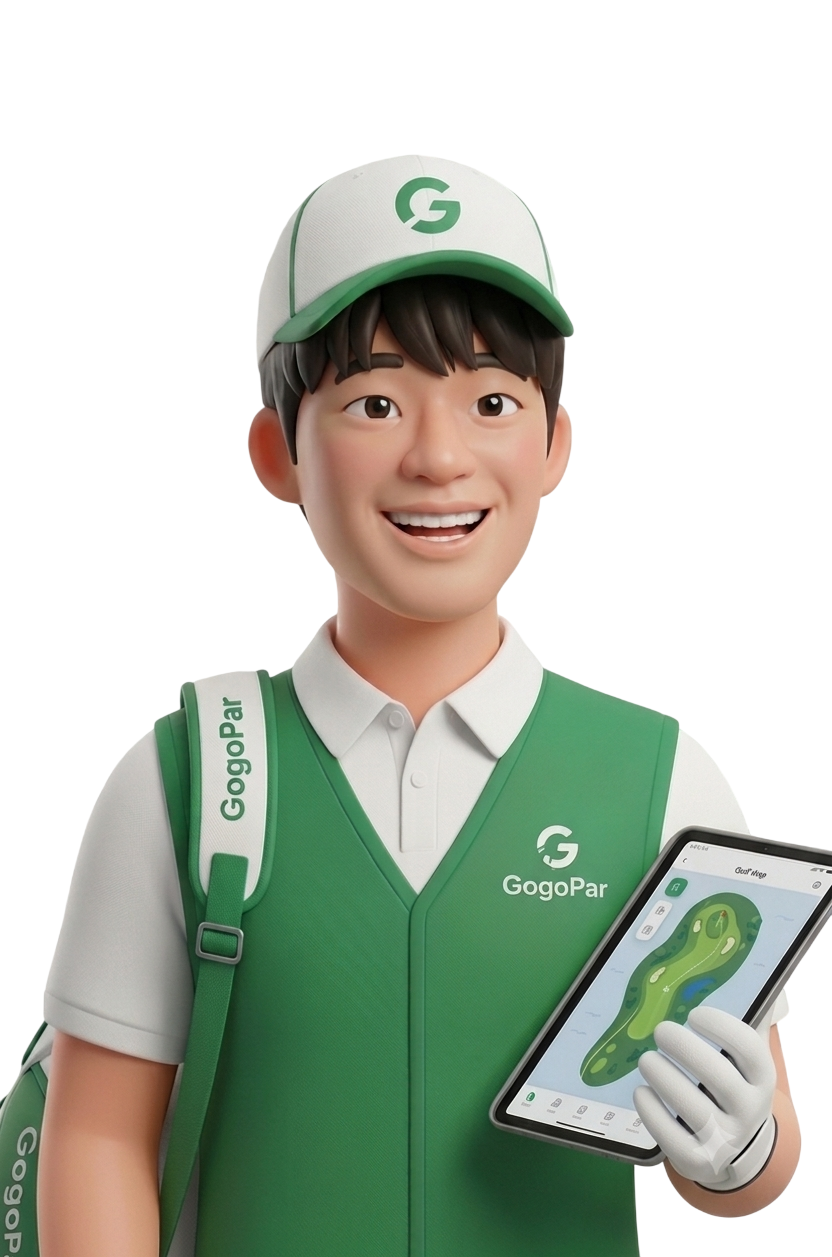
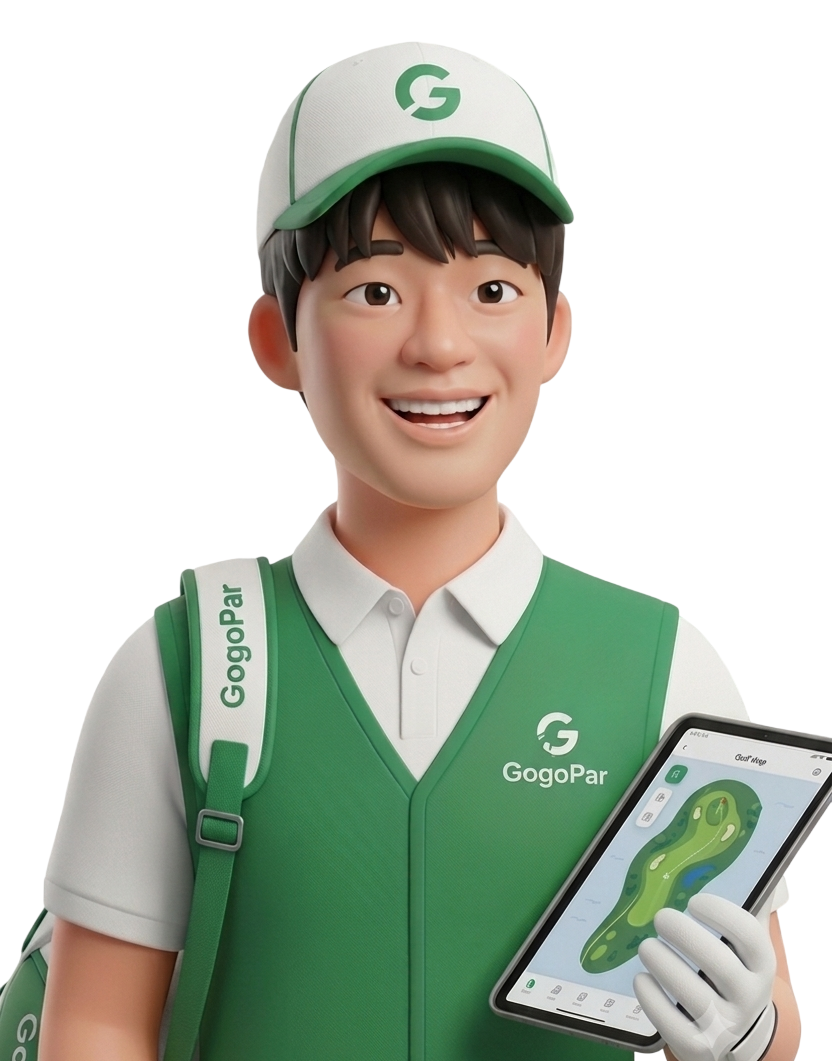
자동차 이동

diff --git a/src/features/home/components/PremiumGogoCaddieCard.tsx b/src/features/home/components/PremiumGogoCaddieCard.tsx
@@ -102,16 +102,17 @@ const styles = StyleSheet.create({
     gap: spacing.md,
   },
   characterStage: {
-    width: 126,
-    minHeight: 136,
+    width: 146,
+    minHeight: 146,
     borderRadius: 32,
     alignItems: 'center',
     justifyContent: 'flex-end',
     overflow: 'hidden',
   },
   characterImage: {
-    width: 132,
-    height: 150,
+    width: 168,
+    height: 190,
+    marginBottom: -10,
   },
   rightColumn: {
     flex: 1,
